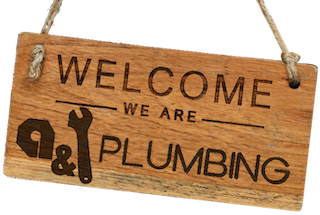
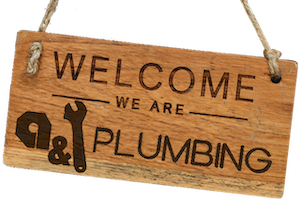
make page more responsive

diff --git a/static/styles/default.css b/static/styles/default.css
@@ -155,12 +155,6 @@ a.content-button {
   max-width: 1200px;
   margin: 40px auto;
 }
-.welcome-sign {
-  background-image: url('../images/welcome-sign.png');
-  background-position-x: center;
-  background-repeat: no-repeat; 
-  height: 215px;
-}
 
 a.seals {
   display: inline-block;
@@ -192,6 +186,15 @@ a.seals:hover {
   background-image: url('../images/trusted-pros-logo.png');
 }
 
+.welcome-sign {
+  position: absolute;
+  background-image: url('../images/welcome-sign.png');
+  background-position-x: center;
+  background-repeat: no-repeat; 
+  height: 202px;
+  top: 0px;
+  width: 100%;
+}
 
 .window-left {
   position: absolute;
@@ -497,6 +500,7 @@ ul.main-menu {
   width: 360px;
   margin: 0 auto;
   text-align: center;
+  padding-top: 165px;
 }
 
 ul.main-menu li {
@@ -535,14 +539,6 @@ ul.main-menu li > span, .contact-buttons a {
   .window-bottom-right, .window-left-continue, .window-right-continue {
      display:none; 
    }
-  
-  .window {
-    width : 95%;
-  }
-
-  ul.main-menu {
-    width: 75%;
-  }
 
   /* detailed container adjustments */
   .detailed-container-left-pipe {
@@ -595,13 +591,43 @@ ul.main-menu li > span, .contact-buttons a {
   div.one-card ol, div.two-card ol, div.zero-card ol{
     padding-left: 20px;
   }
+
+  .window {
+    width : 90%;
+  }
+
+  ul.main-menu {
+    width: 80%;
+  }
 }
 
-@media (max-width: 550px) {
-  .hide-tiny-screen {
+@media (max-width: 560px) {
+  /*.hide-tiny-screen {
     display: none !important;  
+  }*/
+  .window {
+    width : 95%;
   }
   ul.main-menu {
     width: 94%;
   }
 }
+
+@media (max-width: 440px) {
+  /*.hide-super-tiny-screen {
+    display: none !important;  
+  }*/
+  .hide-tiny-screen {
+    display: none !important;  
+  }
+}
+
+@media (max-width: 365px) {
+  .hide-super-tiny-screen {
+    display: none !important;  
+  }
+  ul.main-menu {
+    width: 99%;
+  }
+}
+

diff --git a/index.html b/index.html
@@ -75,13 +75,12 @@
         <div class="window-top-right hidden-phone"></div>
         <div id="main-menu-container" class="main-menu-container">
           <div id="main-menu">
-            <div class="welcome-sign"></div>
     			  <ul class="main-menu menu strip-default">
               <li>
                 <span>
                   A &amp; Y Plumbing is a family-owned plumbing, drain, and waterproofing business, headquartered in North York, happily serving Toronto and the GTA since 2001. What distinguishes us is our commitment to quality, flexibility, and thoroughness.<br/><br/>
                   <a href="https://goo.gl/maps/3NmLvZ6WkssTgfxC9" class="google-logo seals" target="_blank" title="Check us out on Google Maps"></a>
-                  <a href="https://www.facebook.com/plumbersintoronto" class="facebook-logo seals" target="_blank" title="Check us out on Facebook"></a>
+                  <a href="https://www.facebook.com/plumbersintoronto" class="hide-super-tiny-screen facebook-logo seals" target="_blank" title="Check us out on Facebook"></a>
                   <a href="https://www.bbb.org/ca/on/north-york/profile/plumber/a-and-y-plumbing-0107-1219189" class="bbb-logo seals" target="_blank" title="See our A+ Rating on BBB"></a>
                   <a href="https://homestars.com/companies/2778342-a-and-y-plumbing" class="homestars-logo seals hide-tiny-screen" target="_blank" title="A &amp; Y Plumbing on HomeStars"></a>
                   <a href="https://secure.toronto.ca/LicenceStatus/search.do?tradeNo=P21703" class="toronto-logo seals" target="_blank" title="City of Toronto License"></a>
@@ -103,6 +102,7 @@
     			</div>
         </div> 
       </div>
+      <div class="welcome-sign"></div>
     </div>
     <div class="detailed-container hidden-container">
       <div class="detailed-container-left-pipe"></div>
